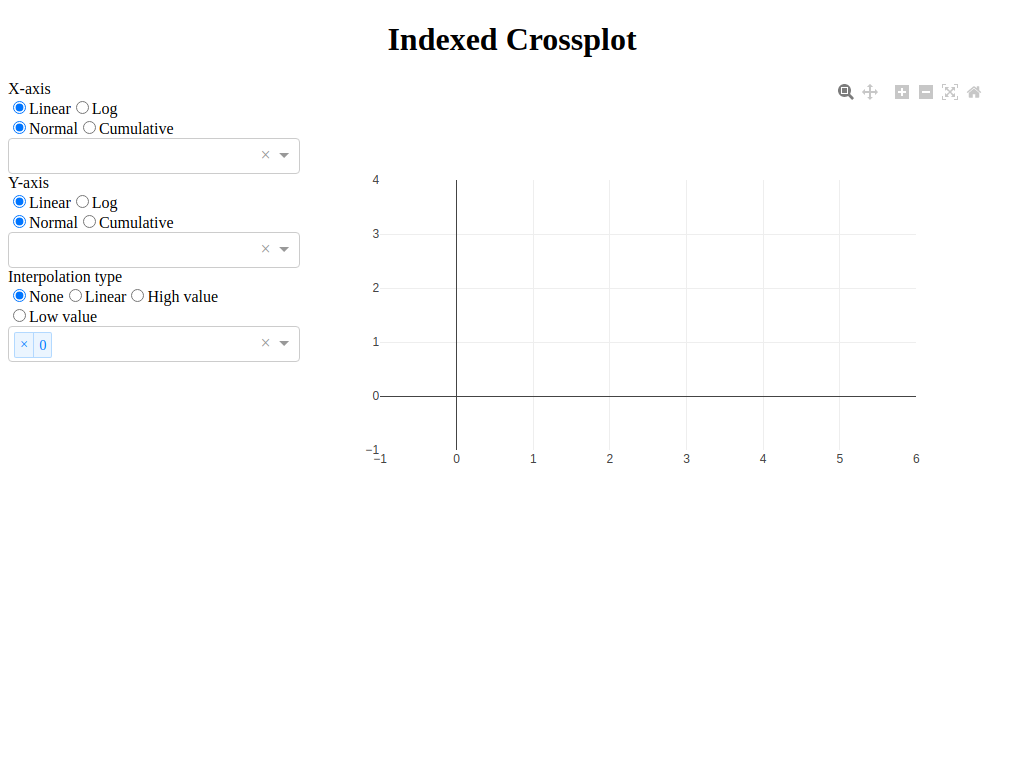
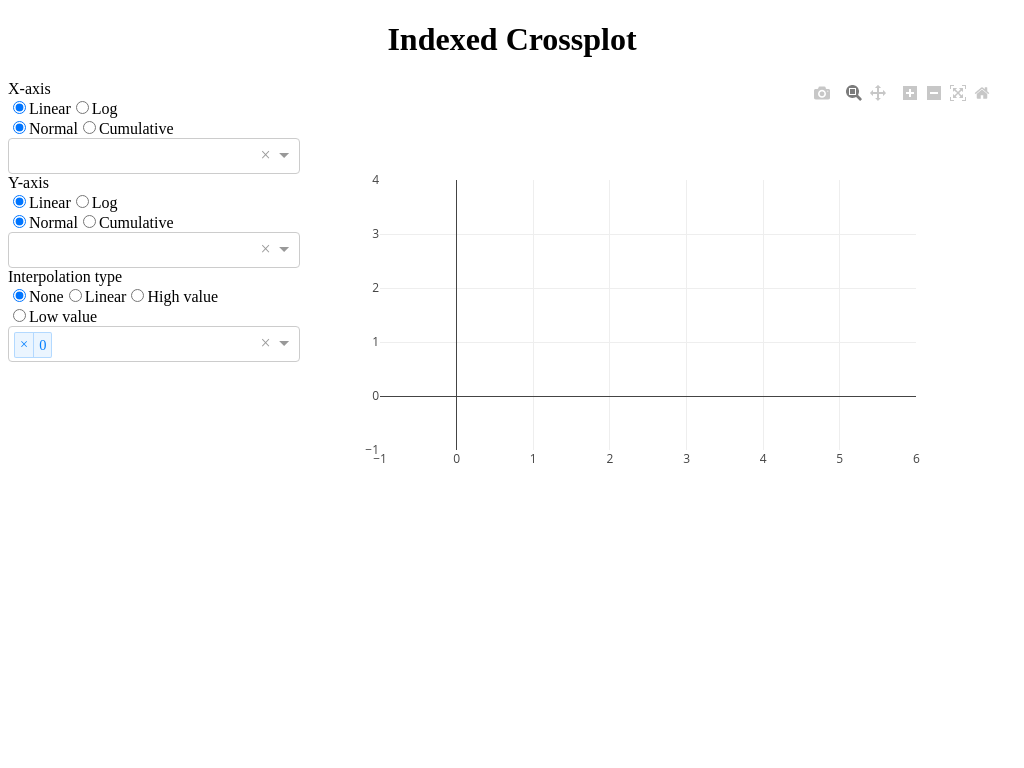
Re-enable save plot buttons and fix tests

diff --git a/tests/unit/crossplot/test_layout.py b/tests/unit/crossplot/test_layout.py
@@ -117,7 +117,7 @@ def test_crossplot_layout(dash_duo, monkeypatch, mocker, tmpdir, assert_equal_im
     dash_duo.driver.set_window_size(1024, 768)
     with tmpdir.as_cwd():
         # Graph can be slow to load, so we need to ensure it has loaded.
-        time.sleep(1)
+        time.sleep(10)
         dash_duo.driver.save_screenshot("example_snapshot.png")
         snapshot = Image.open("example_snapshot.png")
 
@@ -134,7 +134,7 @@ def test_crossplot_layout(dash_duo, monkeypatch, mocker, tmpdir, assert_equal_im
         )
     )
 
-    assert_equal_images(reference_image, snapshot, threshold=0.5)
+    assert_equal_images(reference_image, snapshot, threshold=1.0)
 
 
 def test_webviz_page_layout(mocker):

diff --git a/tests/unit/crossplot/test_indexed_crossplot_layout.py b/tests/unit/crossplot/test_indexed_crossplot_layout.py
@@ -34,7 +34,7 @@ def test_crossplot_layout(dash_duo, monkeypatch, mocker, tmpdir, assert_equal_im
     dash_duo.driver.set_window_size(1024, 768)
     with tmpdir.as_cwd():
         # Graph can be slow to load, so we need to ensure it has loaded.
-        time.sleep(1)
+        time.sleep(10)
         dash_duo.driver.save_screenshot("example_snapshot.png")
         snapshot = Image.open("example_snapshot.png")
 
@@ -51,4 +51,4 @@ def test_crossplot_layout(dash_duo, monkeypatch, mocker, tmpdir, assert_equal_im
         )
     )
 
-    assert_equal_images(reference_image, snapshot, threshold=0.5)
+    assert_equal_images(reference_image, snapshot, threshold=1.0)

diff --git a/tests/unit/test_single_objective_plot_layout.py b/tests/unit/test_single_objective_plot_layout.py
@@ -49,13 +49,13 @@ def test_single_objective_plot_layout(
     ref_image = Image.open(ref_image_path)
 
     with tmpdir.as_cwd():
-        time.sleep(1)
+        time.sleep(10)
         dash_duo.driver.save_screenshot("example_snapshot.png")
         screen_shot = Image.open("example_snapshot.png")
 
     if screen_shot.size != ref_image.size:
         pytest.skip("Reference image size does not match {}".format(screen_shot.size))
-    assert_equal_images(ref_image, screen_shot, threshold=0.5)
+    assert_equal_images(ref_image, screen_shot, threshold=1.0)
 
     dash_duo.clear_input("#{}".format(plugin.function_dropdown_id))
 

diff --git a/tests/integration/crossplot/test_crossplot_indexed_integration.py b/tests/integration/crossplot/test_crossplot_indexed_integration.py
@@ -25,7 +25,9 @@ def test_crossplot_indexed_callback(app, dash_duo, monkeypatch, mocker, caplog):
     assert columns_names == options_x.text.split("\n")
     dash_duo.clear_input("#{}".format(plugin.dropdown_x_id))
 
-    dash_duo.find_element(f"#{plugin.graph_id}").click()
+    dash_duo.click_at_coord_fractions(
+        dash_duo.find_element(f"#{plugin.graph_id}"), 0, 0
+    )
 
     dropdown_y = dash_duo.find_element(f"#{plugin.dropdown_y_id}")
     dropdown_y.click()

diff --git a/everviz/plugins/crossplot/crossplot_indexed.py b/everviz/plugins/crossplot/crossplot_indexed.py
@@ -127,7 +127,6 @@ class CrossplotIndexed(EvervizPluginABC):
                                 dcc.Graph(
                                     id=self.graph_id,
                                     config={
-                                        "modeBarButtonsToRemove": ["toImage"],
                                         "displaylogo": False,
                                     },
                                 )

diff --git a/everviz/plugins/objectives_plot/objectives_plot.py b/everviz/plugins/objectives_plot/objectives_plot.py
@@ -125,7 +125,6 @@ class ObjectivesPlot(EvervizPluginABC):
                                 dcc.Graph(
                                     id=self.graph_id,
                                     config={
-                                        "modeBarButtonsToRemove": ["toImage"],
                                         "displaylogo": False,
                                     },
                                 )

diff --git a/everviz/plugins/summary_plot/summary_plot.py b/everviz/plugins/summary_plot/summary_plot.py
@@ -132,7 +132,6 @@ class SummaryPlot(EvervizPluginABC):
                                 dcc.Graph(
                                     id=self.graph_id,
                                     config={
-                                        "modeBarButtonsToRemove": ["toImage"],
                                         "displaylogo": False,
                                     },
                                 )

diff --git a/everviz/plugins/controls_plot/controls_plot.py b/everviz/plugins/controls_plot/controls_plot.py
@@ -63,7 +63,6 @@ class ControlsPlot(EvervizPluginABC):
                                 dcc.Graph(
                                     id=self.graph_id,
                                     config={
-                                        "modeBarButtonsToRemove": ["toImage"],
                                         "displaylogo": False,
                                     },
                                 )

diff --git a/everviz/plugins/crossplot/crossplot.py b/everviz/plugins/crossplot/crossplot.py
@@ -103,7 +103,6 @@ class Crossplot(EvervizPluginABC):
                                 dcc.Graph(
                                     id=self.graph_id,
                                     config={
-                                        "modeBarButtonsToRemove": ["toImage"],
                                         "displaylogo": False,
                                     },
                                 )

diff --git a/everviz/plugins/summary_plot/wells_plot.py b/everviz/plugins/summary_plot/wells_plot.py
@@ -106,7 +106,6 @@ class WellsPlot(EvervizPluginABC):
                                 dcc.Graph(
                                     id=self.graph_id,
                                     config={
-                                        "modeBarButtonsToRemove": ["toImage"],
                                         "displaylogo": False,
                                     },
                                 )

diff --git a/everviz/plugins/objectives_plot/single_objectives_plot.py b/everviz/plugins/objectives_plot/single_objectives_plot.py
@@ -65,7 +65,6 @@ class SingleObjectivesPlot(EvervizPluginABC):
                         dcc.Graph(
                             id=self.graph_id,
                             config={
-                                "modeBarButtonsToRemove": ["toImage"],
                                 "displaylogo": False,
                             },
                         )

diff --git a/setup.py b/setup.py
@@ -22,7 +22,7 @@ setup(
         "pandas",
         "numpy",
         "dash",
-        "webviz-config",
+        "webviz-config>=0.2.0",
         "plotly",
         "flask",
     ],
